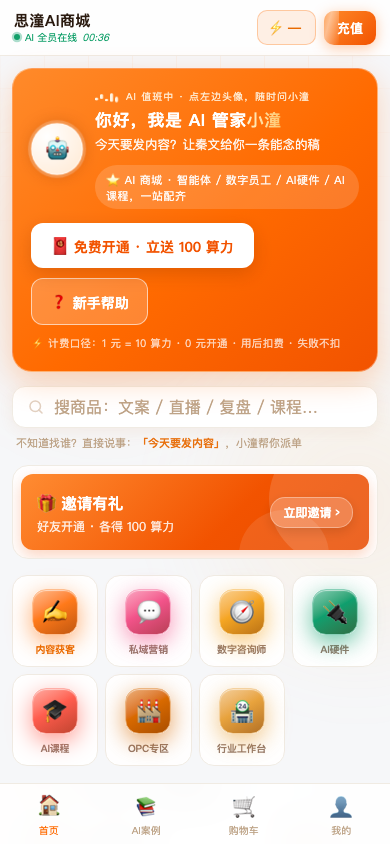
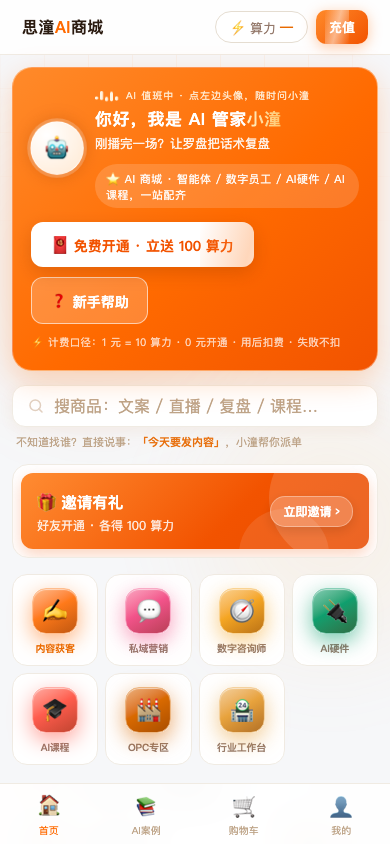
feat(web): 顶栏统一为工作台 demo 样式（← 返回胶囊 + 思潼AI商城字标 + 页面徽标 + 算力胶囊），全站顶格（仅本地）
- MallTopbar 重构：可选 ← 返回胶囊 / 页面徽标（如「IP定位智能体 · 定位工作台」）/ 思潼（深）AI（橙）商城 字标 / 右侧白色算力胶囊 + 充值
- 顶格统一：详情页与 Topic 工作台原先被 1200 容器框住，改 calc(50%-50vw) 全出血；内层 1200 与页面内容对齐；body:has overflow-x hidden 防横向滚动
- 14 个页面（首页/详情×8/工作台×5）统一调用；详情页与工作台原独立返回按钮删除（收进顶栏）
- 验收 61/61 PASS（含三页顶栏几何测量：detail/workbench x=0 全出血、内层 1200 对齐、字标 AI 橙色）

diff --git a/apps/web/src/marketplace/MallTopbar.tsx b/apps/web/src/marketplace/MallTopbar.tsx
@@ -3,13 +3,12 @@ import { getAppPath } from "../lib/api.js";
 import { fetchMarketMe } from "./shell.js";
 
 /**
- * 商城版式顶栏（照原型 agents-home-tech-demo v3.28 顶栏）：
- * 品牌 + 「● AI 全员在线 · HH:MM」+ 余额橙 chip + 流光充值按钮 + ？帮助。
- * 商城首页与各数字人详情页共用；余额自取（fetchMarketMe）。
+ * 商城统一顶栏（样式基准：工作台 demo 顶栏）。
+ * 左：可选「← 返回」胶囊 + 思潼AI商城 字标（思潼深色 + AI 橙色）+ 页面徽标；
+ * 右：⚡算力余额胶囊 + 充值按钮。余额自取（fetchMarketMe）。
  */
-export function MallTopbar() {
+export function MallTopbar({ back, badge }: { back?: string; badge?: string }) {
   const [balance, setBalance] = useState<number | null>(null);
-  const [clock, setClock] = useState("");
 
   useEffect(() => {
     let cancelled = false;
@@ -19,28 +18,19 @@ export function MallTopbar() {
     return () => { cancelled = true; };
   }, []);
 
-  useEffect(() => {
-    const fmt = () => {
-      const d = new Date();
-      return `${String(d.getHours()).padStart(2, "0")}:${String(d.getMinutes()).padStart(2, "0")}`;
-    };
-    setClock(fmt());
-    const timer = window.setInterval(() => setClock(fmt()), 15000);
-    return () => window.clearInterval(timer);
-  }, []);
-
   return (
     <header className="eh-topbar">
-      <div className="eh-brand">
-        <div className="eh-brand-txt">
-          <b>思潼AI商城</b>
-          <span className="eh-ai"><i></i>AI 全员在线 <em>{clock}</em></span>
+      <div className="eh-topbar-in">
+        {back ? (
+          <button type="button" className="eh-backpill" onClick={() => { window.location.href = getAppPath(back); }}>← 返回</button>
+        ) : null}
+        <span className="eh-logo"><b>思潼</b><em>AI</em>商城</span>
+        {badge ? <span className="eh-page-badge">{badge}</span> : null}
+        <span className="eh-sp" />
+        <div className="eh-wallet">
+          <span className="eh-bal2">⚡ 算力 <b>{balance ?? "—"}</b></span>
+          <button type="button" className="eh-mini" onClick={() => { window.location.href = getAppPath("/recharge"); }}>充值</button>
         </div>
-      </div>
-      <span className="eh-sp" />
-      <div className="eh-wallet">
-        <span className="eh-bal">⚡ <b>{balance ?? "—"}</b><i>{balance != null ? `≈ ¥${(balance / 10).toFixed(balance % 10 === 0 ? 0 : 1)}` : ""}</i></span>
-        <button type="button" className="eh-mini" onClick={() => { window.location.href = getAppPath("/recharge"); }}>充值</button>
       </div>
     </header>
   );

diff --git a/apps/web/src/styles/eco-mall.css b/apps/web/src/styles/eco-mall.css
@@ -1267,11 +1267,27 @@ body.eco-mall-body .app-wrap {
 
 /* ---- 顶栏 ---- */
 .eh-topbar{
-  position:sticky;top:0;z-index:100;display:flex;align-items:center;gap:10px;
-  padding:10px 18px;background:rgba(255,255,255,.9);
+  position:sticky;top:0;z-index:100;
+  background:rgba(255,255,255,.9);
   -webkit-backdrop-filter:blur(16px);backdrop-filter:blur(16px);
-  border-bottom:1px solid #F0EBE3;padding-left:14px;padding-right:14px;
+  border-bottom:1px solid #F0EBE3;
 }
+/* 顶栏内层：与页面内容容器对齐（1200 居中） */
+.eh-topbar-in{max-width:1200px;margin:0 auto;padding:10px 22px;display:flex;align-items:center;gap:10px}
+.eh-backpill{flex:none;height:32px;padding:0 14px;border-radius:999px;border:1px solid #E5DDD1;background:#fff;color:#94796B;font-size:12.5px;font-weight:600;cursor:pointer}
+.eh-backpill:hover{color:#E86A00;border-color:rgba(255,122,26,.45)}
+.eh-logo{font-size:16px;font-weight:800;color:#2B1B10;letter-spacing:.5px;white-space:nowrap}
+.eh-logo em{font-style:normal;color:#FF6A00}
+.eh-page-badge{flex:none;height:28px;display:inline-flex;align-items:center;padding:0 12px;border-radius:999px;border:1px solid #E5DDD1;background:#fff;color:#5B6B7C;font-size:12px;white-space:nowrap}
+.eh-bal2{display:inline-flex;align-items:center;gap:4px;height:32px;padding:0 14px;border-radius:999px;border:1px solid #E5DDD1;background:#fff;font-size:13px;color:#94796B;white-space:nowrap}
+.eh-bal2 b{color:#E86A00;font-weight:800}
+/* 详情/Topic 工作台被 1200 容器框住，顶栏做全出血（顶格），与工作台/商城一致 */
+.app-wrap.ipd-page > .eh-topbar,
+.app-wrap:not(.eco-mall-page) > .eh-topbar{
+  margin-left:calc(50% - 50vw);
+  margin-right:calc(50% - 50vw);
+}
+body:has(.ipd-page), body:has(.ts-wb){overflow-x:hidden}
 .eh-brand-txt{display:flex;flex-direction:column;line-height:1.25}
 .eh-brand-txt b{font-size:15px;letter-spacing:.5px;color:#2B1B10}
 .eh-ai{display:inline-flex;align-items:center;gap:5px;font-size:10px;color:#12A06A}

diff --git a/apps/web/src/marketplace/CopyWorkbench.tsx b/apps/web/src/marketplace/CopyWorkbench.tsx
@@ -529,11 +529,10 @@ export function CopyWorkbench({ skuId }: { skuId: string }) {
   return (
     <main className="cpw-page">
       {/* Topbar 在作用域外（商城红线：留白/主题由全局容器与 Topbar 自己管） */}
-      <MallTopbar />
+      <MallTopbar back={`/agent/${encodeURIComponent(skuId)}/detail`} badge="文案主笔智能体 · 文案工作台" />
 
       <header className="cpw-hero">
         <div className="cpw-wrap">
-          <button className="cpw-backbtn" onClick={() => { window.location.href = getAppPath(`/agent/${encodeURIComponent(skuId)}/detail`); }}>← 返回</button>
           <h1><img className="cpw-emoji" src={avatar} alt={persona} />文案创作工作台</h1>
           <p className="cpw-hook">跟{persona}聊几句，它帮你把选题、口播稿、拍摄、发布一次备齐。</p>
           <p className="cpw-ability">回答几个问题 → 出创作简报 → 十件套分区交付：单件可复制，交付后可导出 Word（免费）。</p>

diff --git a/apps/web/src/marketplace/LivescriptWorkbench.tsx b/apps/web/src/marketplace/LivescriptWorkbench.tsx
@@ -506,11 +506,10 @@ export function LivescriptWorkbench({ skuId }: { skuId: string }) {
 
   return (
     <main className="cpw-page">
-      <MallTopbar />
+      <MallTopbar back={`/agent/${encodeURIComponent(skuId)}/detail`} badge="直播话术智能体 · 话术工作台" />
 
       <header className="cpw-hero">
         <div className="cpw-wrap">
-          <button className="cpw-backbtn" onClick={() => { window.location.href = getAppPath(`/agent/${encodeURIComponent(skuId)}/detail`); }}>← 返回</button>
           <div className="cpw-chips">
             <span className="cpw-chip dev">直播话术智能体</span>
             <span className="cpw-chip">罗盘 · 直播操盘总监</span>

diff --git a/apps/web/src/marketplace/VidrevWorkbench.tsx b/apps/web/src/marketplace/VidrevWorkbench.tsx
@@ -503,11 +503,10 @@ export function VidrevWorkbench({ skuId }: { skuId: string }) {
 
   return (
     <main className="cpw-page">
-      <MallTopbar />
+      <MallTopbar back={`/agent/${encodeURIComponent(skuId)}/detail`} badge="视频复盘智能体 · 复盘工作台" />
 
       <header className="cpw-hero">
         <div className="cpw-wrap">
-          <button className="cpw-backbtn" onClick={() => { window.location.href = getAppPath(`/agent/${encodeURIComponent(skuId)}/detail`); }}>← 返回</button>
           <div className="cpw-chips">
             <span className="cpw-chip dev">视频复盘智能体</span>
             <span className="cpw-chip">江流 · 复盘顾问</span>

diff --git a/apps/web/src/marketplace/IpPosWorkbench.tsx b/apps/web/src/marketplace/IpPosWorkbench.tsx
@@ -633,11 +633,10 @@ export function IpPosWorkbench({ skuId }: { skuId: string }) {
 
   return (
     <main className="cpw-page">
-      <MallTopbar />
+      <MallTopbar back={`/agent/${encodeURIComponent(skuId)}/detail`} badge="IP定位智能体 · 定位工作台" />
 
       <header className="cpw-hero">
         <div className="cpw-wrap">
-          <button className="cpw-backbtn" onClick={() => { window.location.href = getAppPath(`/agent/${encodeURIComponent(skuId)}/detail`); }}>← 返回</button>
           <div className="cpw-chips">
             <span className="cpw-chip dev">沈定 · 首席定位官</span>
             <span className="cpw-chip">定位工作台</span>

diff --git a/apps/web/src/marketplace/TopicStrategistWorkbench.tsx b/apps/web/src/marketplace/TopicStrategistWorkbench.tsx
@@ -545,7 +545,7 @@ export function TopicStrategistWorkbench({ skuId }: { skuId?: string }) {
       <main className="app-wrap">
       {/* 商城共用顶栏（与 /agent/<skuCode>/chat 一致：导航 / 主题切换 / 算力 / 退出）。
           放在 .app-wrap 内：顶栏 1200 居中不顶格（与 chat/详情页一致）。 */}
-      <MallTopbar />
+      <MallTopbar back={skuId ? `/agent/${encodeURIComponent(skuId)}/detail` : "/agents"} badge="选题策略智能体 · 选题工作台" />
       <div className="ts-wb">
       {/* ---------- hero ---------- */}
       <header className="hero">

diff --git a/apps/web/src/marketplace/IpPosDetailPage.tsx b/apps/web/src/marketplace/IpPosDetailPage.tsx
@@ -165,10 +165,9 @@ export function IpPosDetailPage() {
 
   return (
     <main className="app-wrap ipd-page eh">
-      <MallTopbar />
+      <MallTopbar back="/agents" badge="IP定位智能体 · 商品详情" />
 
       {/* 返回按钮照原型 back-btn：小号橙色药丸（align-self 防 .app-wrap 纵向 flex 拉伸） */}
-      <button className="ipd-back" onClick={() => { window.location.href = getAppPath("/agents"); }}>← 返回</button>
 
       {/* ============ 上半屏：左头图（可切换视图） + 右信息/价格/CTA ============ */}
       <section className="ipd-pd">

diff --git a/apps/web/src/marketplace/LivescriptDetailPage.tsx b/apps/web/src/marketplace/LivescriptDetailPage.tsx
@@ -146,9 +146,8 @@ export function LivescriptDetailPage() {
 
   return (
     <main className="app-wrap ipd-page eh">
-      <MallTopbar />
+      <MallTopbar back="/agents" badge="直播话术智能体 · 商品详情" />
 
-      <button className="ipd-back" onClick={() => { window.location.href = getAppPath("/agents"); }}>← 返回</button>
 
       {/* ============ 上半屏：左头图（可切换视图） + 右信息/价格/CTA ============ */}
       <section className="ipd-pd">

diff --git a/apps/web/src/marketplace/VidrevDetailPage.tsx b/apps/web/src/marketplace/VidrevDetailPage.tsx
@@ -153,9 +153,8 @@ export function VidrevDetailPage() {
 
   return (
     <main className="app-wrap ipd-page eh">
-      <MallTopbar />
+      <MallTopbar back="/agents" badge="视频复盘智能体 · 商品详情" />
 
-      <button className="ipd-back" onClick={() => { window.location.href = getAppPath("/agents"); }}>← 返回</button>
 
       {/* ============ 上半屏：左头图（可切换视图） + 右信息/价格/CTA ============ */}
       <section className="ipd-pd">

diff --git a/apps/web/src/marketplace/TopicDetailPage.tsx b/apps/web/src/marketplace/TopicDetailPage.tsx
@@ -202,9 +202,8 @@ export function TopicDetailPage() {
 
   return (
     <main className="app-wrap ipd-page eh">
-      <MallTopbar />
+      <MallTopbar back="/agents" badge="选题策略智能体 · 商品详情" />
 
-      <button className="ipd-back" onClick={() => { window.location.href = getAppPath("/agents"); }}>← 返回</button>
 
       {/* ============ 上半屏：左头图（可切换视图） + 右信息/价格/CTA ============ */}
       <section className="ipd-pd">

diff --git a/apps/web/src/marketplace/CopyDetailPage.tsx b/apps/web/src/marketplace/CopyDetailPage.tsx
@@ -172,9 +172,8 @@ export function CopyDetailPage() {
 
   return (
     <main className="app-wrap ipd-page eh">
-      <MallTopbar />
+      <MallTopbar back="/agents" badge="文案主笔智能体 · 商品详情" />
 
-      <button className="ipd-back" onClick={() => { window.location.href = getAppPath("/agents"); }}>← 返回</button>
 
       {/* ============ 上半屏：左头图（可切换视图） + 右信息/价格/CTA ============ */}
       <section className="ipd-pd">
